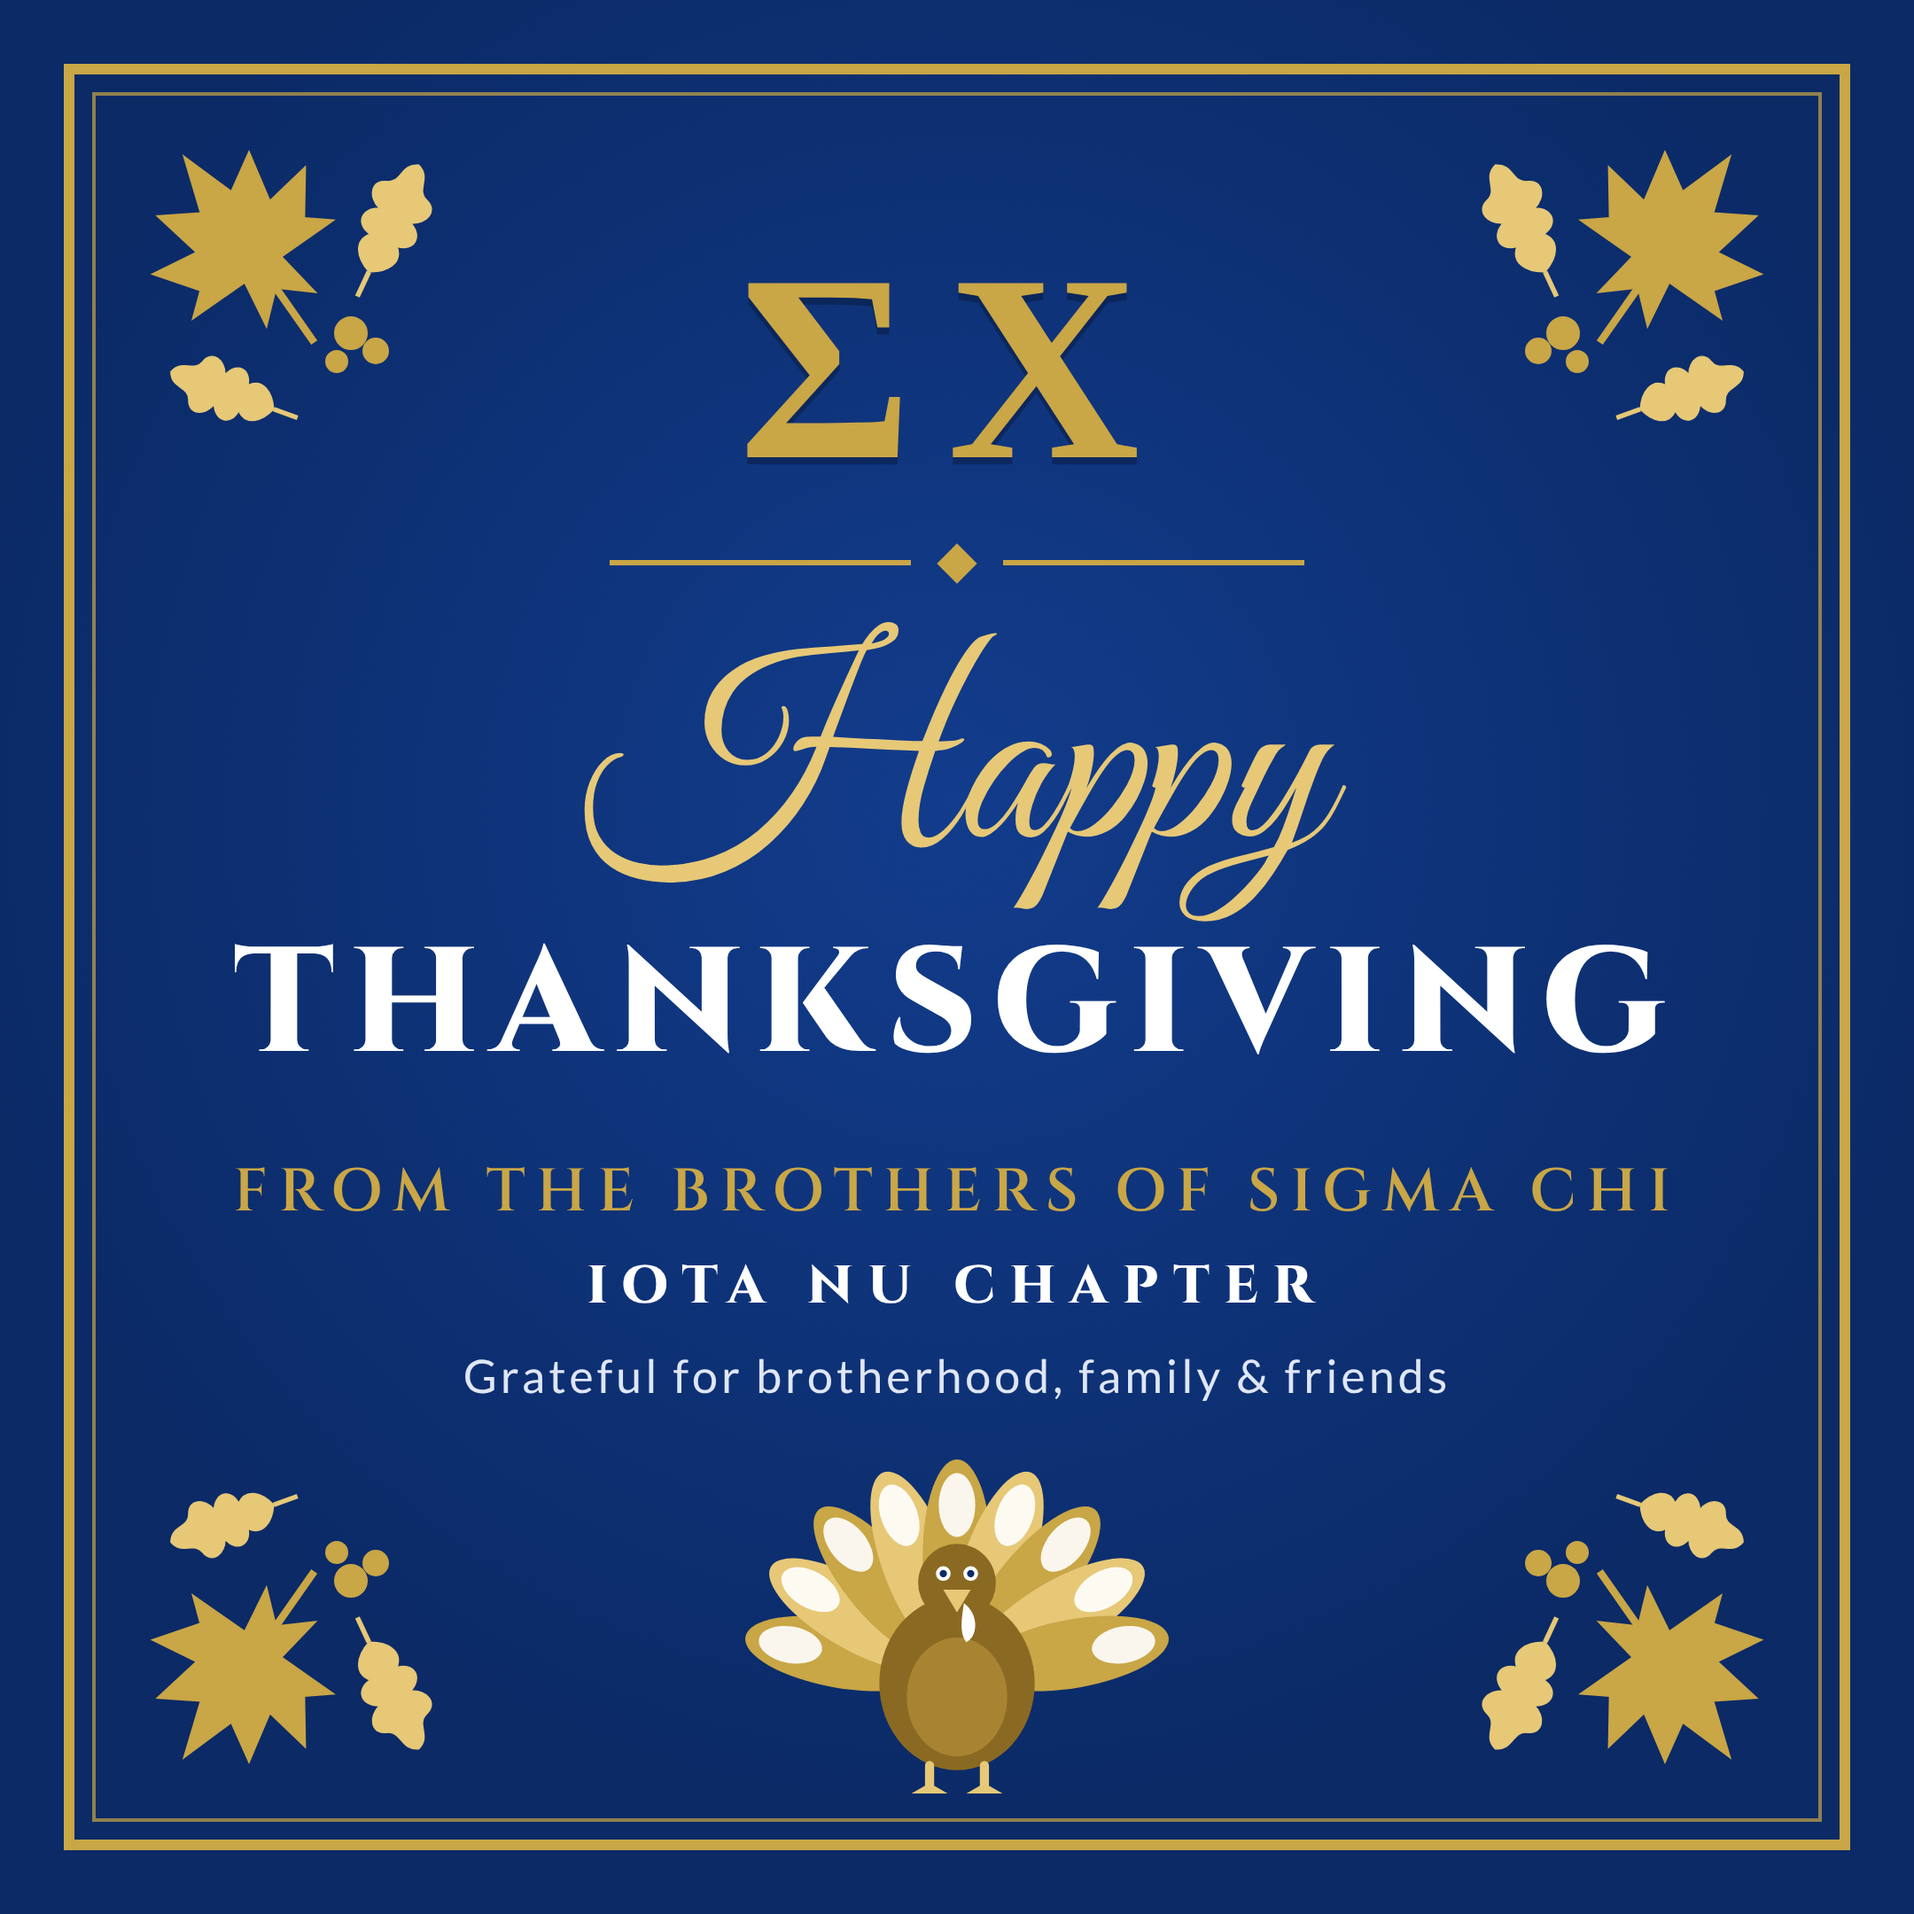
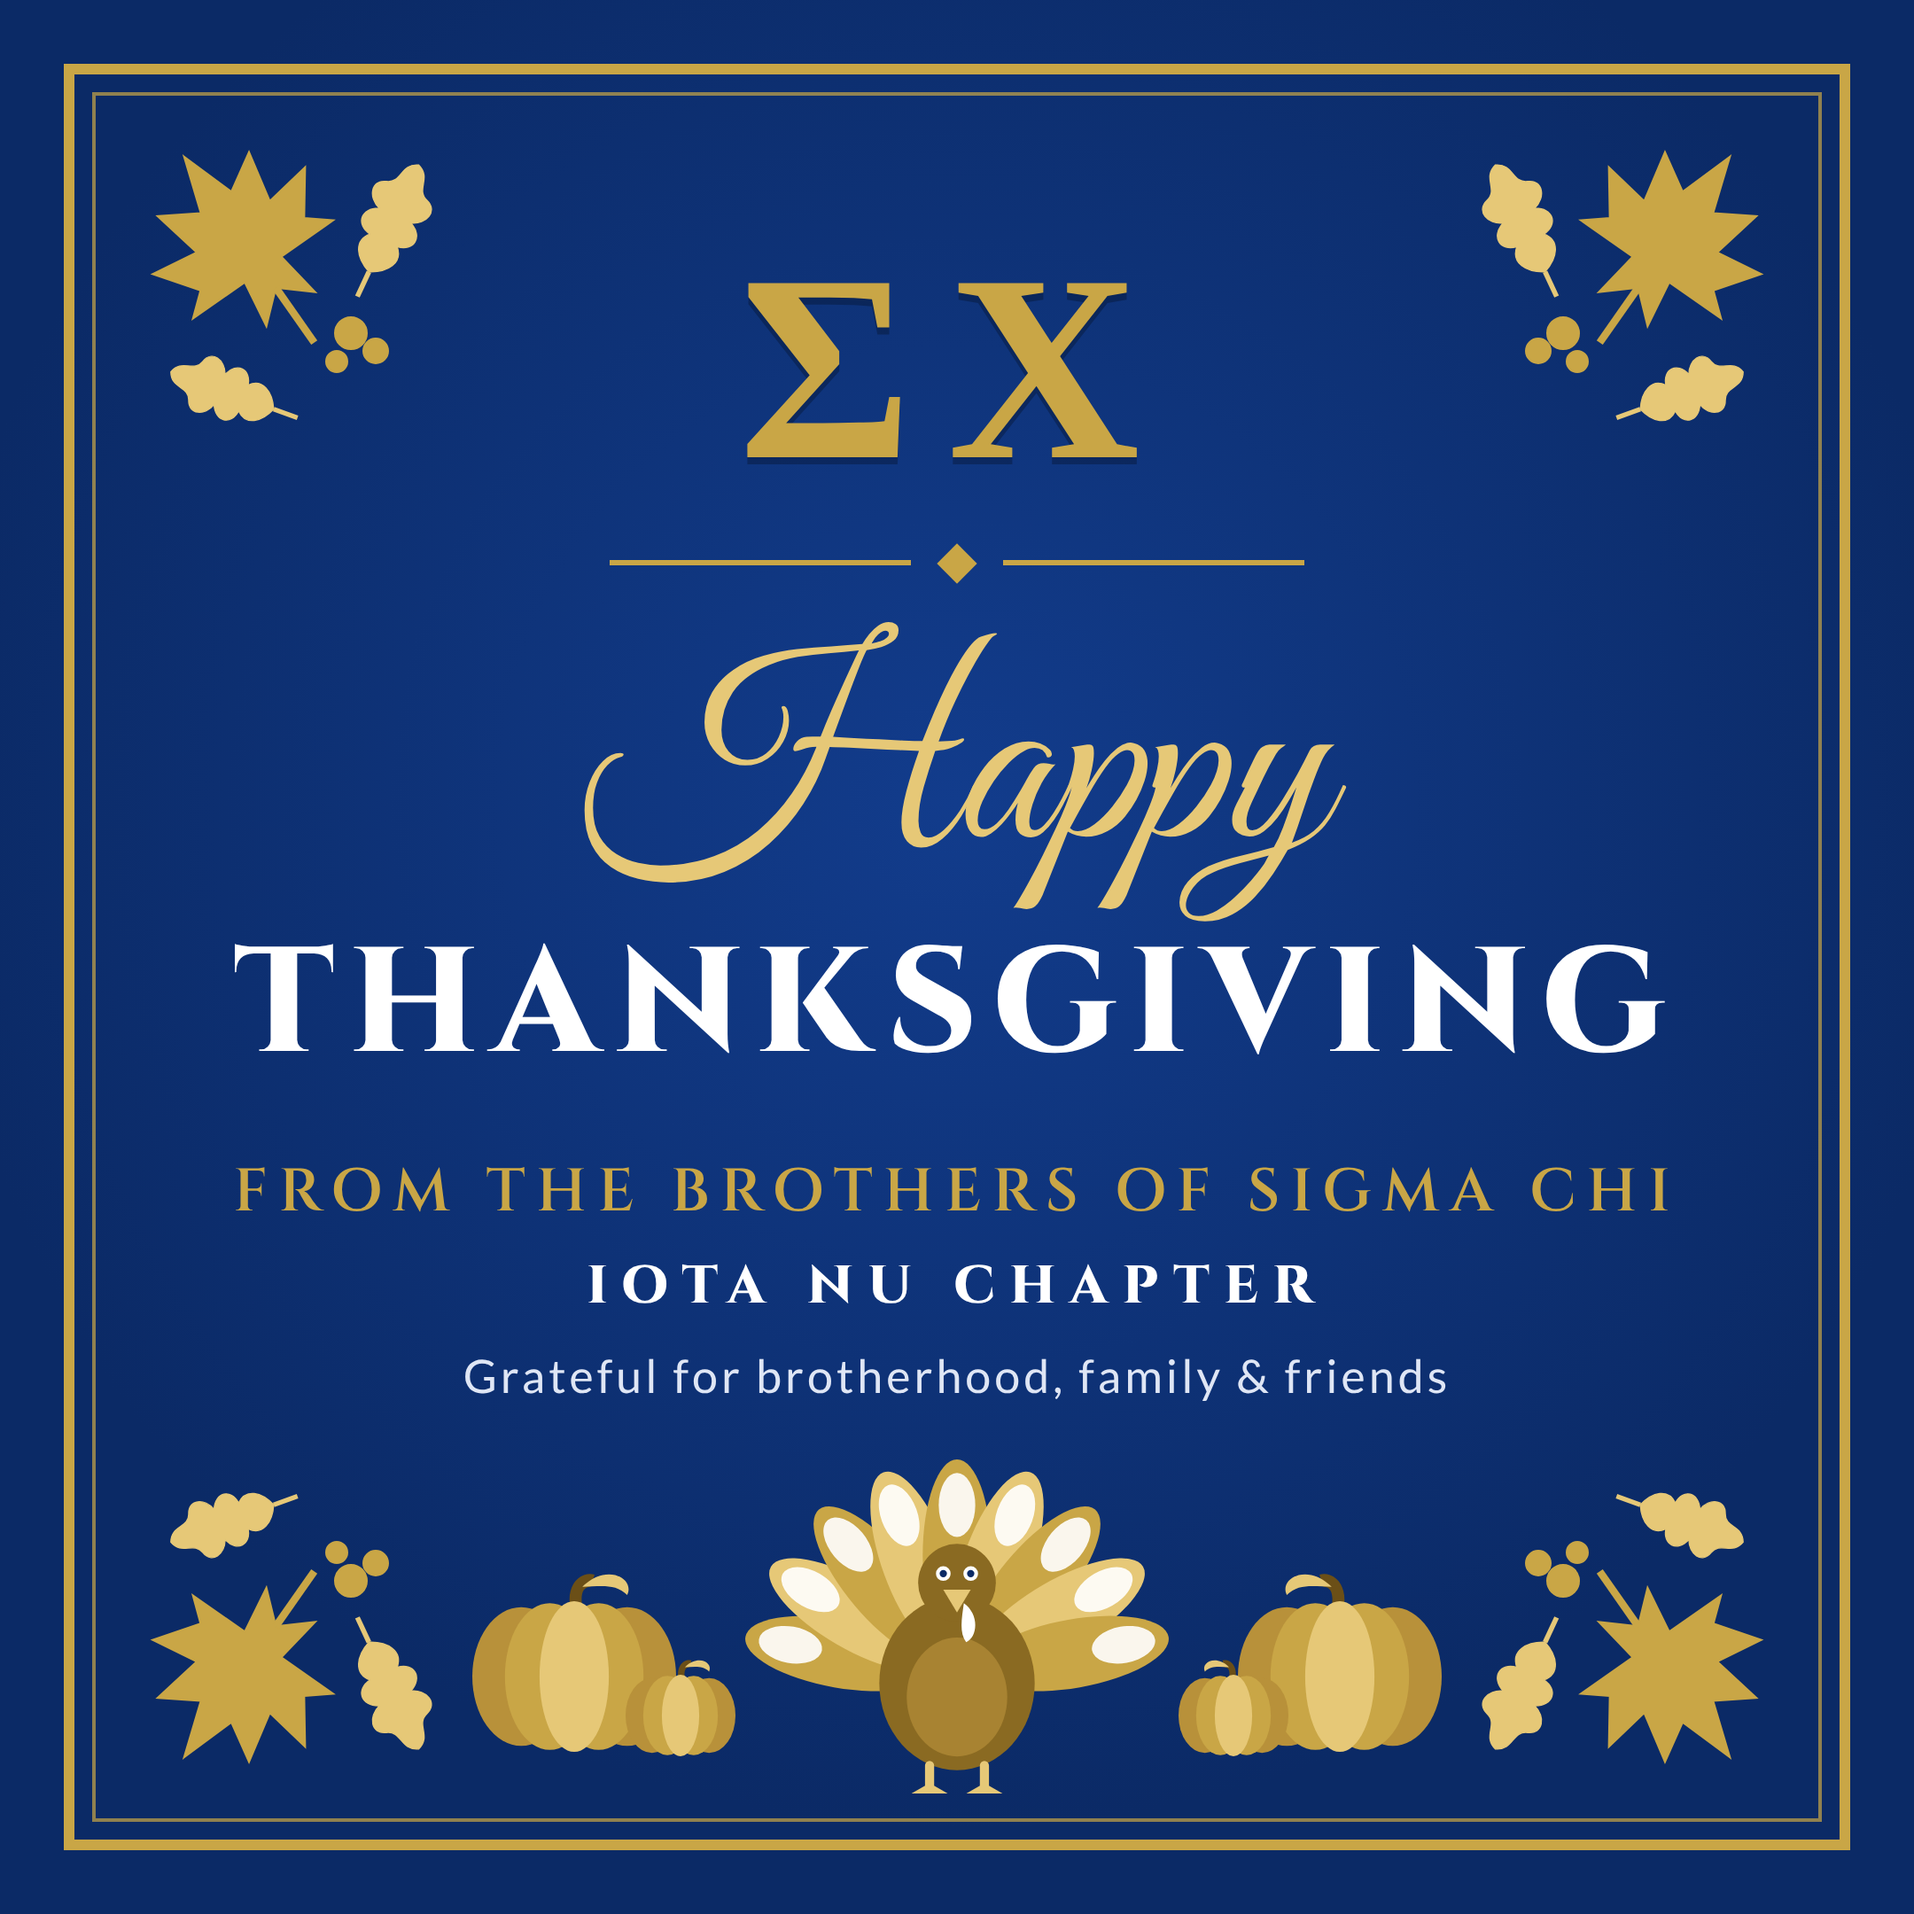
Add pumpkins to Thanksgiving post
Claude-Session: https://claude.ai/code/session_017HSKiQqvArLoh59CgCQpqT

Changed region(s): [[0.2481, 0.8065, 0.4032, 0.9306], [0.6204, 0.8065, 0.7755, 0.9306]]

diff --git a/thanksgiving/post.html b/thanksgiving/post.html
@@ -19,6 +19,19 @@ body{width:1080px;height:1080px;background:radial-gradient(circle at 50% 42%,var
 svg.leaf{position:absolute}
 </style></head><body>
 <div class="frame"></div>
+<svg class="pk" style="position:absolute;left:262px;top:872px" width="170" height="130" viewBox="0 0 170 130"></svg>
+<svg class="pk" style="position:absolute;right:262px;top:872px;transform:scaleX(-1)" width="170" height="130" viewBox="0 0 170 130"></svg>
+<script>
+(()=>{const P=(x,y,k)=>`<g transform="translate(${x},${y}) scale(${k})">
+<path d="M-2,-34 C-4,-46 4,-52 10,-50 L8,-44 C4,-44 3,-40 4,-34Z" fill="#6B4F17"/>
+<path d="M4,-44 C16,-56 30,-48 26,-40 C20,-46 12,-44 4,-44Z" fill="#E6C877"/>
+<ellipse cx="-26" cy="0" rx="24" ry="34" fill="#B8913A"/><ellipse cx="26" cy="0" rx="24" ry="34" fill="#B8913A"/>
+<ellipse cx="-12" cy="0" rx="22" ry="36" fill="#C9A646"/><ellipse cx="12" cy="0" rx="22" ry="36" fill="#C9A646"/>
+<ellipse cx="0" cy="0" rx="17" ry="37" fill="#E6C877"/>
+</g>`;
+document.querySelectorAll('svg.pk').forEach(s=>s.innerHTML=P(62,74,1.15)+P(122,96,.62));})();
+</script>
+
 <svg style="position:absolute;left:50%;top:818px;transform:translateX(-50%)" width="245" height="194" viewBox="-95 -80 190 150">
  <g id="fan"></g>
  <ellipse cx="0" cy="22" rx="34" ry="38" fill="#8A6A22"/>
